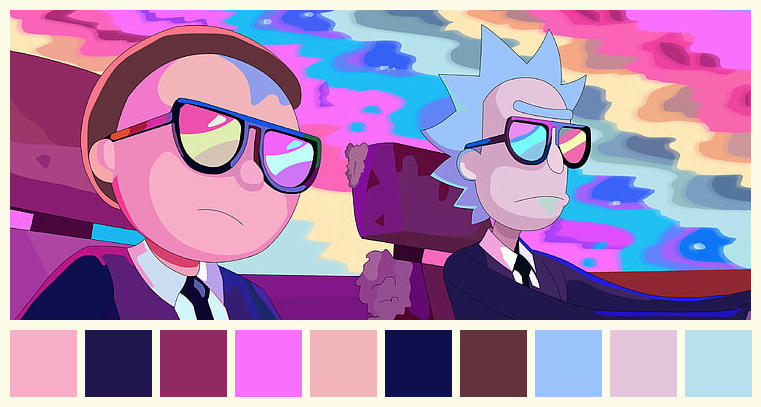
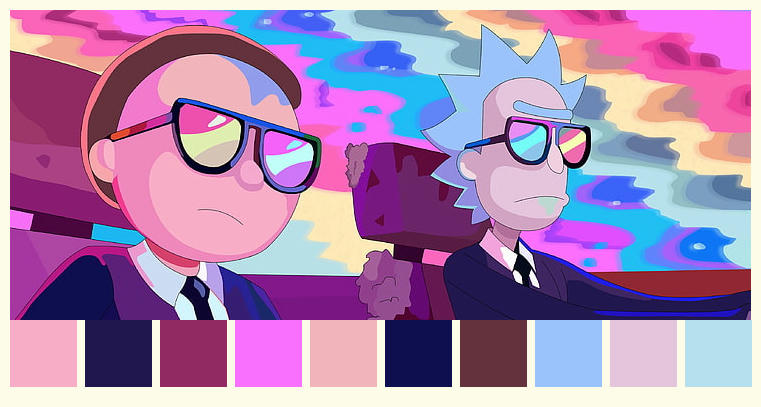
palette can be place on top or bottom

Changed region(s): [[0.0, 0.7666, 0.9974, 0.8256], [0.0, 0.9435, 0.9974, 0.973]]

diff --git a/src/picture.rs b/src/picture.rs
@@ -1,6 +1,6 @@
 use image::{ImageBuffer, DynamicImage, Rgba, GenericImageView, imageops};
 use crate::colors::ColorCount;
-use crate::utils::SaveImage;
+use crate::utils::{SaveImage, Placement};
 
 /// Palette struct which holds the image buffer of the palette,
 /// number of boxes, box size, and empty space size between boxes
@@ -75,11 +75,14 @@ impl Palette {
 /// Contains `ImageBuffer` and y coordinate that divides picture and palette
 pub struct FramedPicture {
     buffer: ImageBuffer<Rgba<u8>, Vec<u8>>,
-    y_divider: u32,
+    layer_divider: (u32, u32),
     palette: Palette,
+    placement: Placement,
 }
 
 impl FramedPicture {
+
+    // TODO resizing of palette boxes for vertical alignment
 
     /// Constructor that takes the dimensions of the original image
     /// and allocates additional space for frame. Then it fills the buffer
@@ -94,20 +97,43 @@ impl FramedPicture {
     ///
     /// # Return
     /// * `FramedPicture` struct
-    pub fn new(width: u32, height: u32, n: Option<u32>) -> Self {
+    pub fn new(width: u32, height: u32, n: Option<u32>, placement: Placement) -> Self {
         let dims = FramedPicture::compute_palette_size(
             width, n.unwrap_or(10));
-        let w = width + 20;
-        let h = height + 30 + dims.0;
+
+        let mut w = 0;
+        let mut h = 0;
+        if placement == Placement::Top || placement == Placement::Bottom {
+            w = width + 20;
+            h = height + 30 + dims.0;
+        } else {
+            w = width + 30 + dims.0;
+            h = height + 20;
+        }
+
         let tmp: ImageBuffer<Rgba<u8>, Vec<u8>> = ImageBuffer::from_fn(
             w, h, |_,_| { Rgba([255, 252, 234, 1]) });
         let p = Palette::new(dims.0, n.unwrap_or(10), dims.1);
+        let divider = FramedPicture::_set_layers_divider(&placement, height, width);
 
         FramedPicture {
             buffer: tmp,
-            y_divider: height + 20,
+            layer_divider: divider,
             palette: p,
+            placement,
         }
+    }
+
+    fn _set_layers_divider(placement: &Placement,
+                           height: u32, width: u32) -> (u32, u32) {
+        let mut y_divider = 10;
+        let mut x_divider = 10;
+        if placement == &Placement::Bottom {
+            y_divider += height;
+        } else if placement == &Placement::Left {
+            x_divider += width;
+        }
+        (x_divider, y_divider)
     }
 
     /// Copies supplied dynamic image into this image buffer,
@@ -117,9 +143,17 @@ impl FramedPicture {
     /// * size - of the frame
     /// * image - which will be copied into this buffer
     pub fn copy_img_into(&mut self, size: u32, image: &DynamicImage) {
+        let mut starting_x = 0;
+        let mut starting_y = 0;
+        if self.placement == Placement::Left {
+            starting_x = self.palette.get_dimensions().1 + size;
+        } else if self.placement == Placement::Top {
+            starting_y = self.palette.get_dimensions().1 + size;
+        }
+
         for i in image.pixels() {
-            let x = i.0 + size;
-            let y = i.1 + size;
+            let x = i.0 + size + starting_x;
+            let y = i.1 + size + starting_y;
             let color = i.2;
             self.buffer.put_pixel(x, y, color);
         }
@@ -142,6 +176,9 @@ impl FramedPicture {
 
     pub fn fill_in_palette(&mut self, top_colors: &Vec<(u32, &ColorCount)>) {
         self.palette.paint_palette(top_colors);
+        // if self.placement == Placement::Left || self.placement == Placement::Right {
+        //     self.palette.rotate_90degrees();
+        // }
     }
 
     /// Overlays the palette buffer on top of this buffer.
@@ -150,8 +187,13 @@ impl FramedPicture {
     /// # Arguments
     /// palette - image buffer that contains n boxes separated with pillars.
     pub fn combine_pieces(&mut self) {
+        let divider =
+            if self.placement == Placement::Top
+                || self.placement == Placement::Bottom {
+                self.layer_divider.1
+            } else { self.layer_divider.0 };
         imageops::overlay(
-            &mut self.buffer, self.palette.get_buffer(), 10, self.y_divider);
+            &mut self.buffer, self.palette.get_buffer(), 10, divider);
     }
 
     /// Get the image dimensions of this image buffer in a form of tuple

diff --git a/src/main.rs b/src/main.rs
@@ -2,7 +2,7 @@ extern crate image;
 
 use structopt::StructOpt;
 use image::{GenericImageView};
-use paleatra::utils::{get_colors_from, get_most_freq, SaveImage};
+use paleatra::utils::{get_colors_from, get_most_freq, SaveImage, Placement};
 use paleatra::picture::FramedPicture;
 
 /// simple CLI which holds terminal arguments
@@ -27,8 +27,9 @@ fn main() {
 
     let top_n = get_most_freq(&colors, n as usize);
 
+    let place = Placement::Bottom;
     let mut imgcpy = FramedPicture::new(
-        img.width(), img.height(), Some(n));
+        img.width(), img.height(), Some(n), place);
     imgcpy.fill_in_palette(&top_n);
     imgcpy.copy_img_into(n, &img);
     imgcpy.combine_pieces();

diff --git a/src/utils.rs b/src/utils.rs
@@ -76,3 +76,11 @@ pub trait SaveImage {
     }
 }
 
+#[derive(PartialEq)]
+pub enum Placement {
+    Top,
+    Bottom,
+    Left,
+    Right,
+}
+
